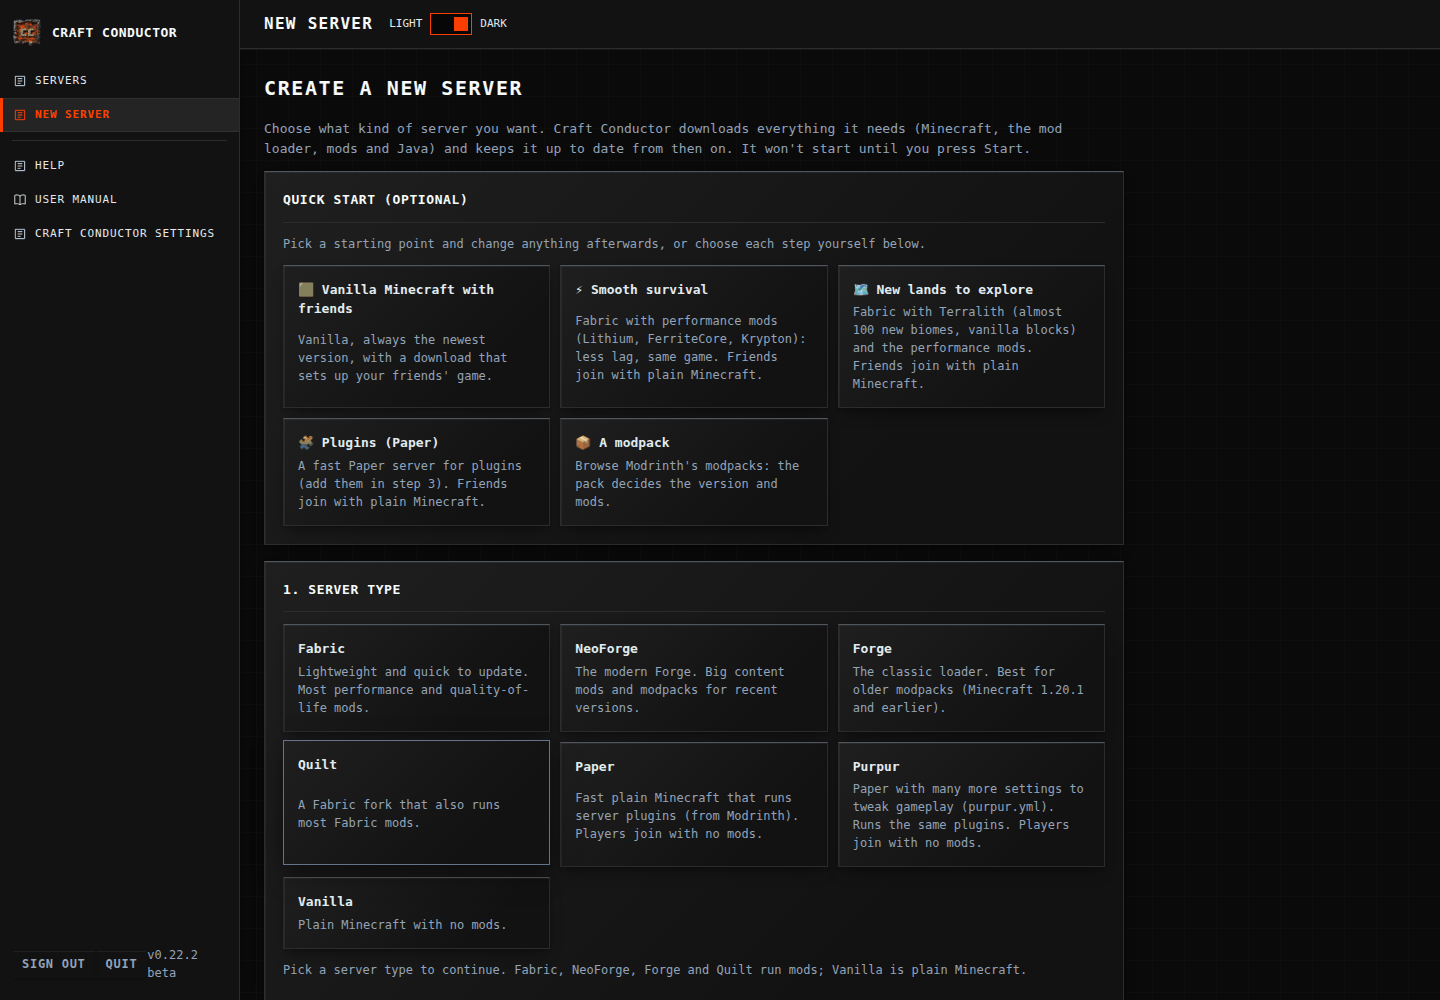
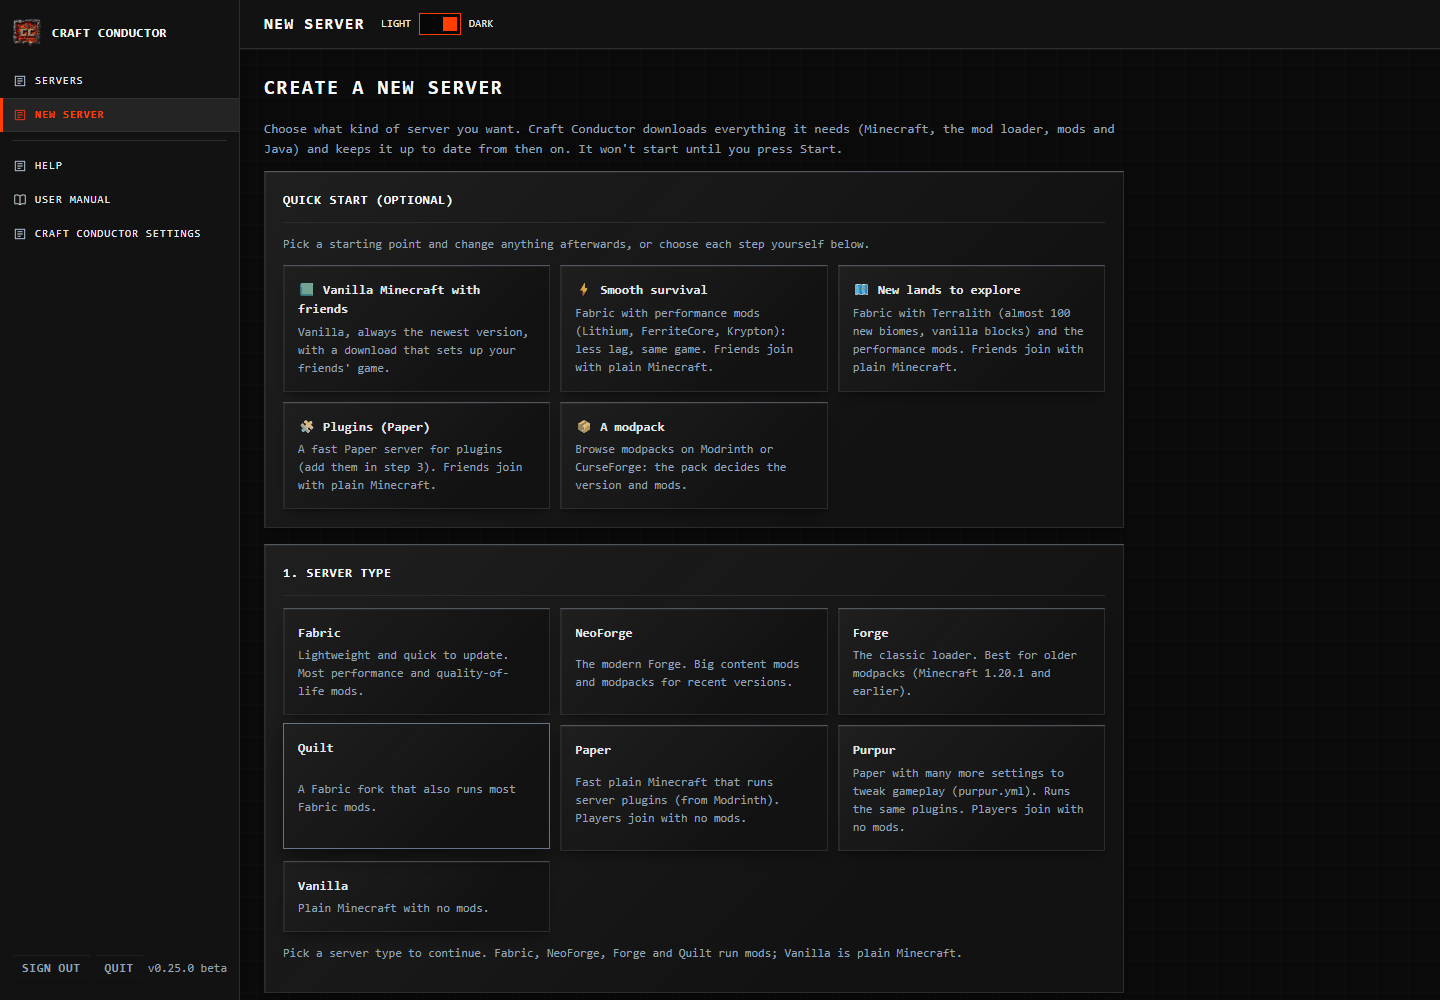
Add a screenshot of the manual downloads panel
The panel that slides open for mods downloaded by hand gets its picture in
the manual (Creating a server), the wiki and Help, and New server is retaken
for its "A modpack" text (Modrinth or CurseForge).

diff --git a/src/craft_conductor/webui/app.js b/src/craft_conductor/webui/app.js
@@ -4663,7 +4663,8 @@ const MANUAL_PICTURES = {
   "Getting started": [["sign-in", "Signing in the first time"], ["choose-password", "Choosing your own password"]],
   "The guided setup": [["guided-setup", "The guided setup's checklist, in a corner of the page"]],
   "Creating a server": [["new-server", "New server"], ["mod-browser", "The mod browser"],
-    ["map-preview", "World generation & map preview, with landmarks"]],
+    ["map-preview", "World generation & map preview, with landmarks"],
+    ["manual-downloads", "Mods to download by hand: a link for each, and the box to drop them on"]],
   "On another computer (Linux, over SSH)": [["ssh-install", "Install on a Linux computer or rented server (SSH)"]],
   "Messages": [["question", "A question waits in the middle of the screen"]],
   "Your servers": [["servers", "Your servers, and a modded single-player game"]],

diff --git a/packaging/wiki.py b/packaging/wiki.py
@@ -49,7 +49,8 @@ IMAGES = {
     "Getting started": [("sign-in.png", "Signing in the first time"), ("choose-password.png", "Choosing your own password")],
     "The guided setup": [("guided-setup.png", "The guided setup's checklist, in a corner of the page")],
     "Creating a server": [("new-server.png", "New server"), ("mod-browser.png", "The mod browser"),
-                          ("map-preview.png", "World generation & map preview, with landmarks")],
+                          ("map-preview.png", "World generation & map preview, with landmarks"),
+                          ("manual-downloads.png", "Mods to download by hand: a link for each, and the box to drop them on")],
     "On another computer (Linux, over SSH)": [("ssh-install.png", "Install on a Linux computer or rented server (SSH)")],
     "Messages": [("question.png", "A question waits in the middle of the screen")],
     "Your servers": [("servers.png", "Your servers, and a modded single-player game")],
